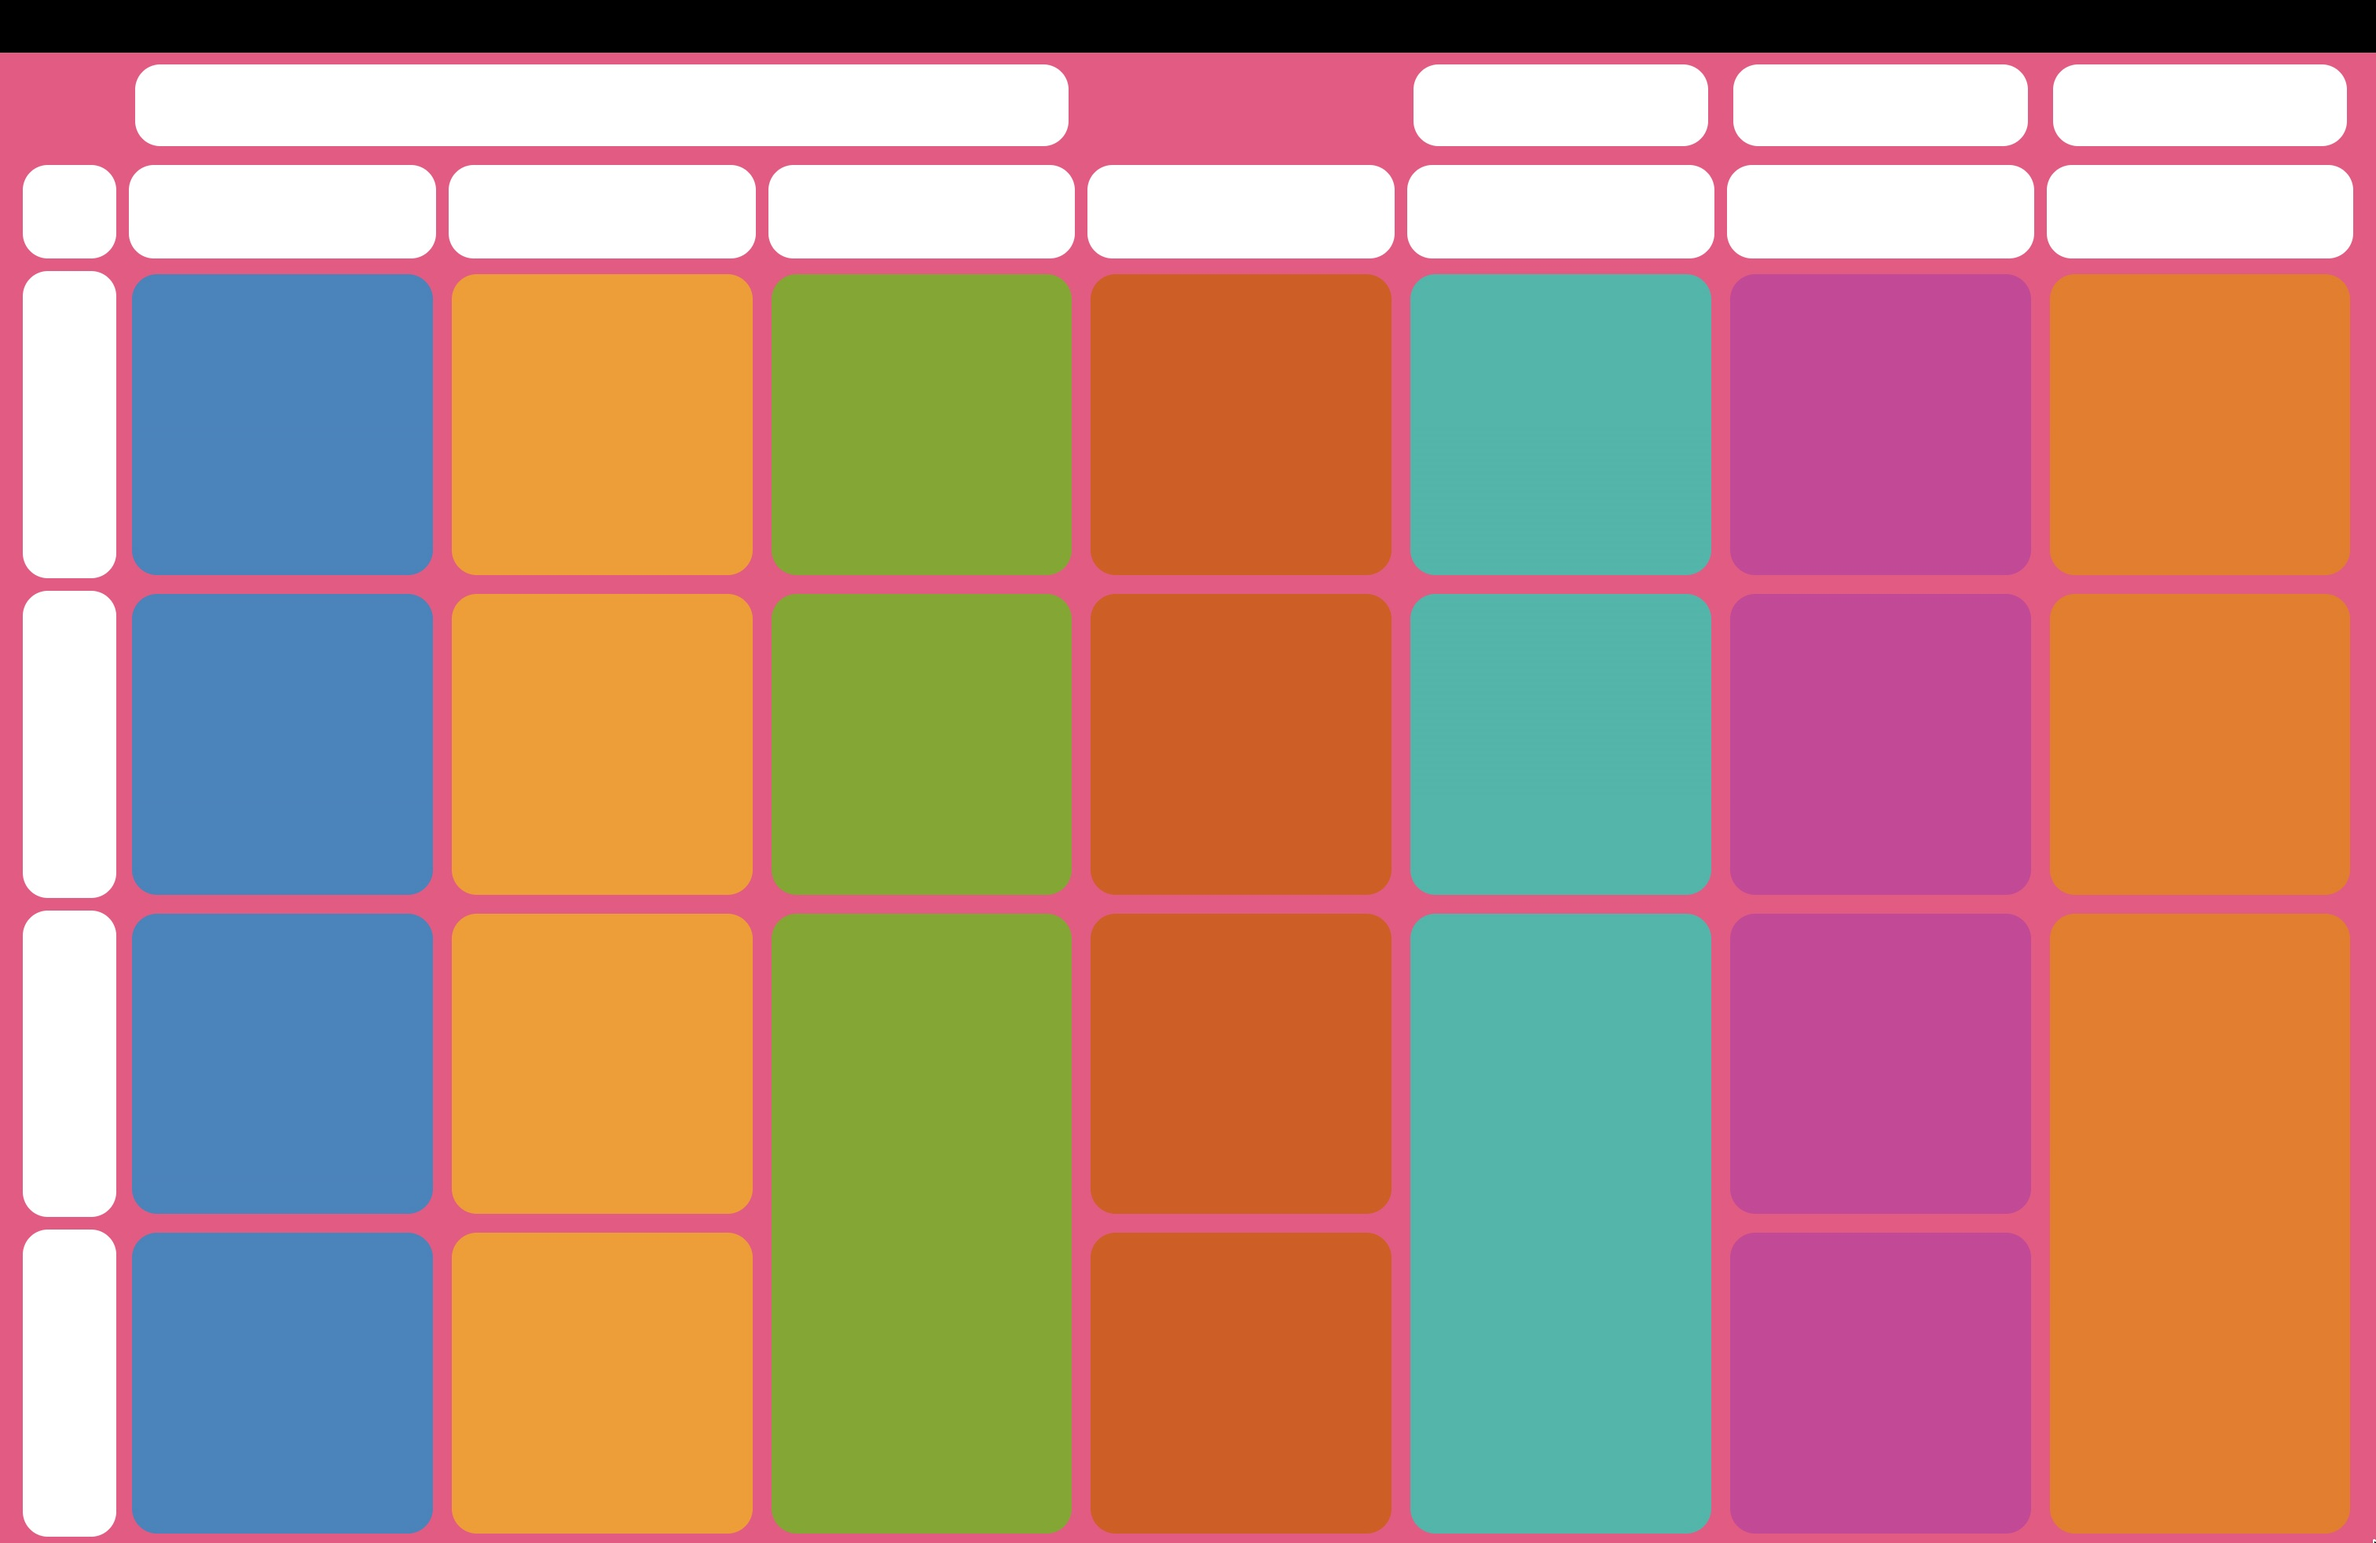
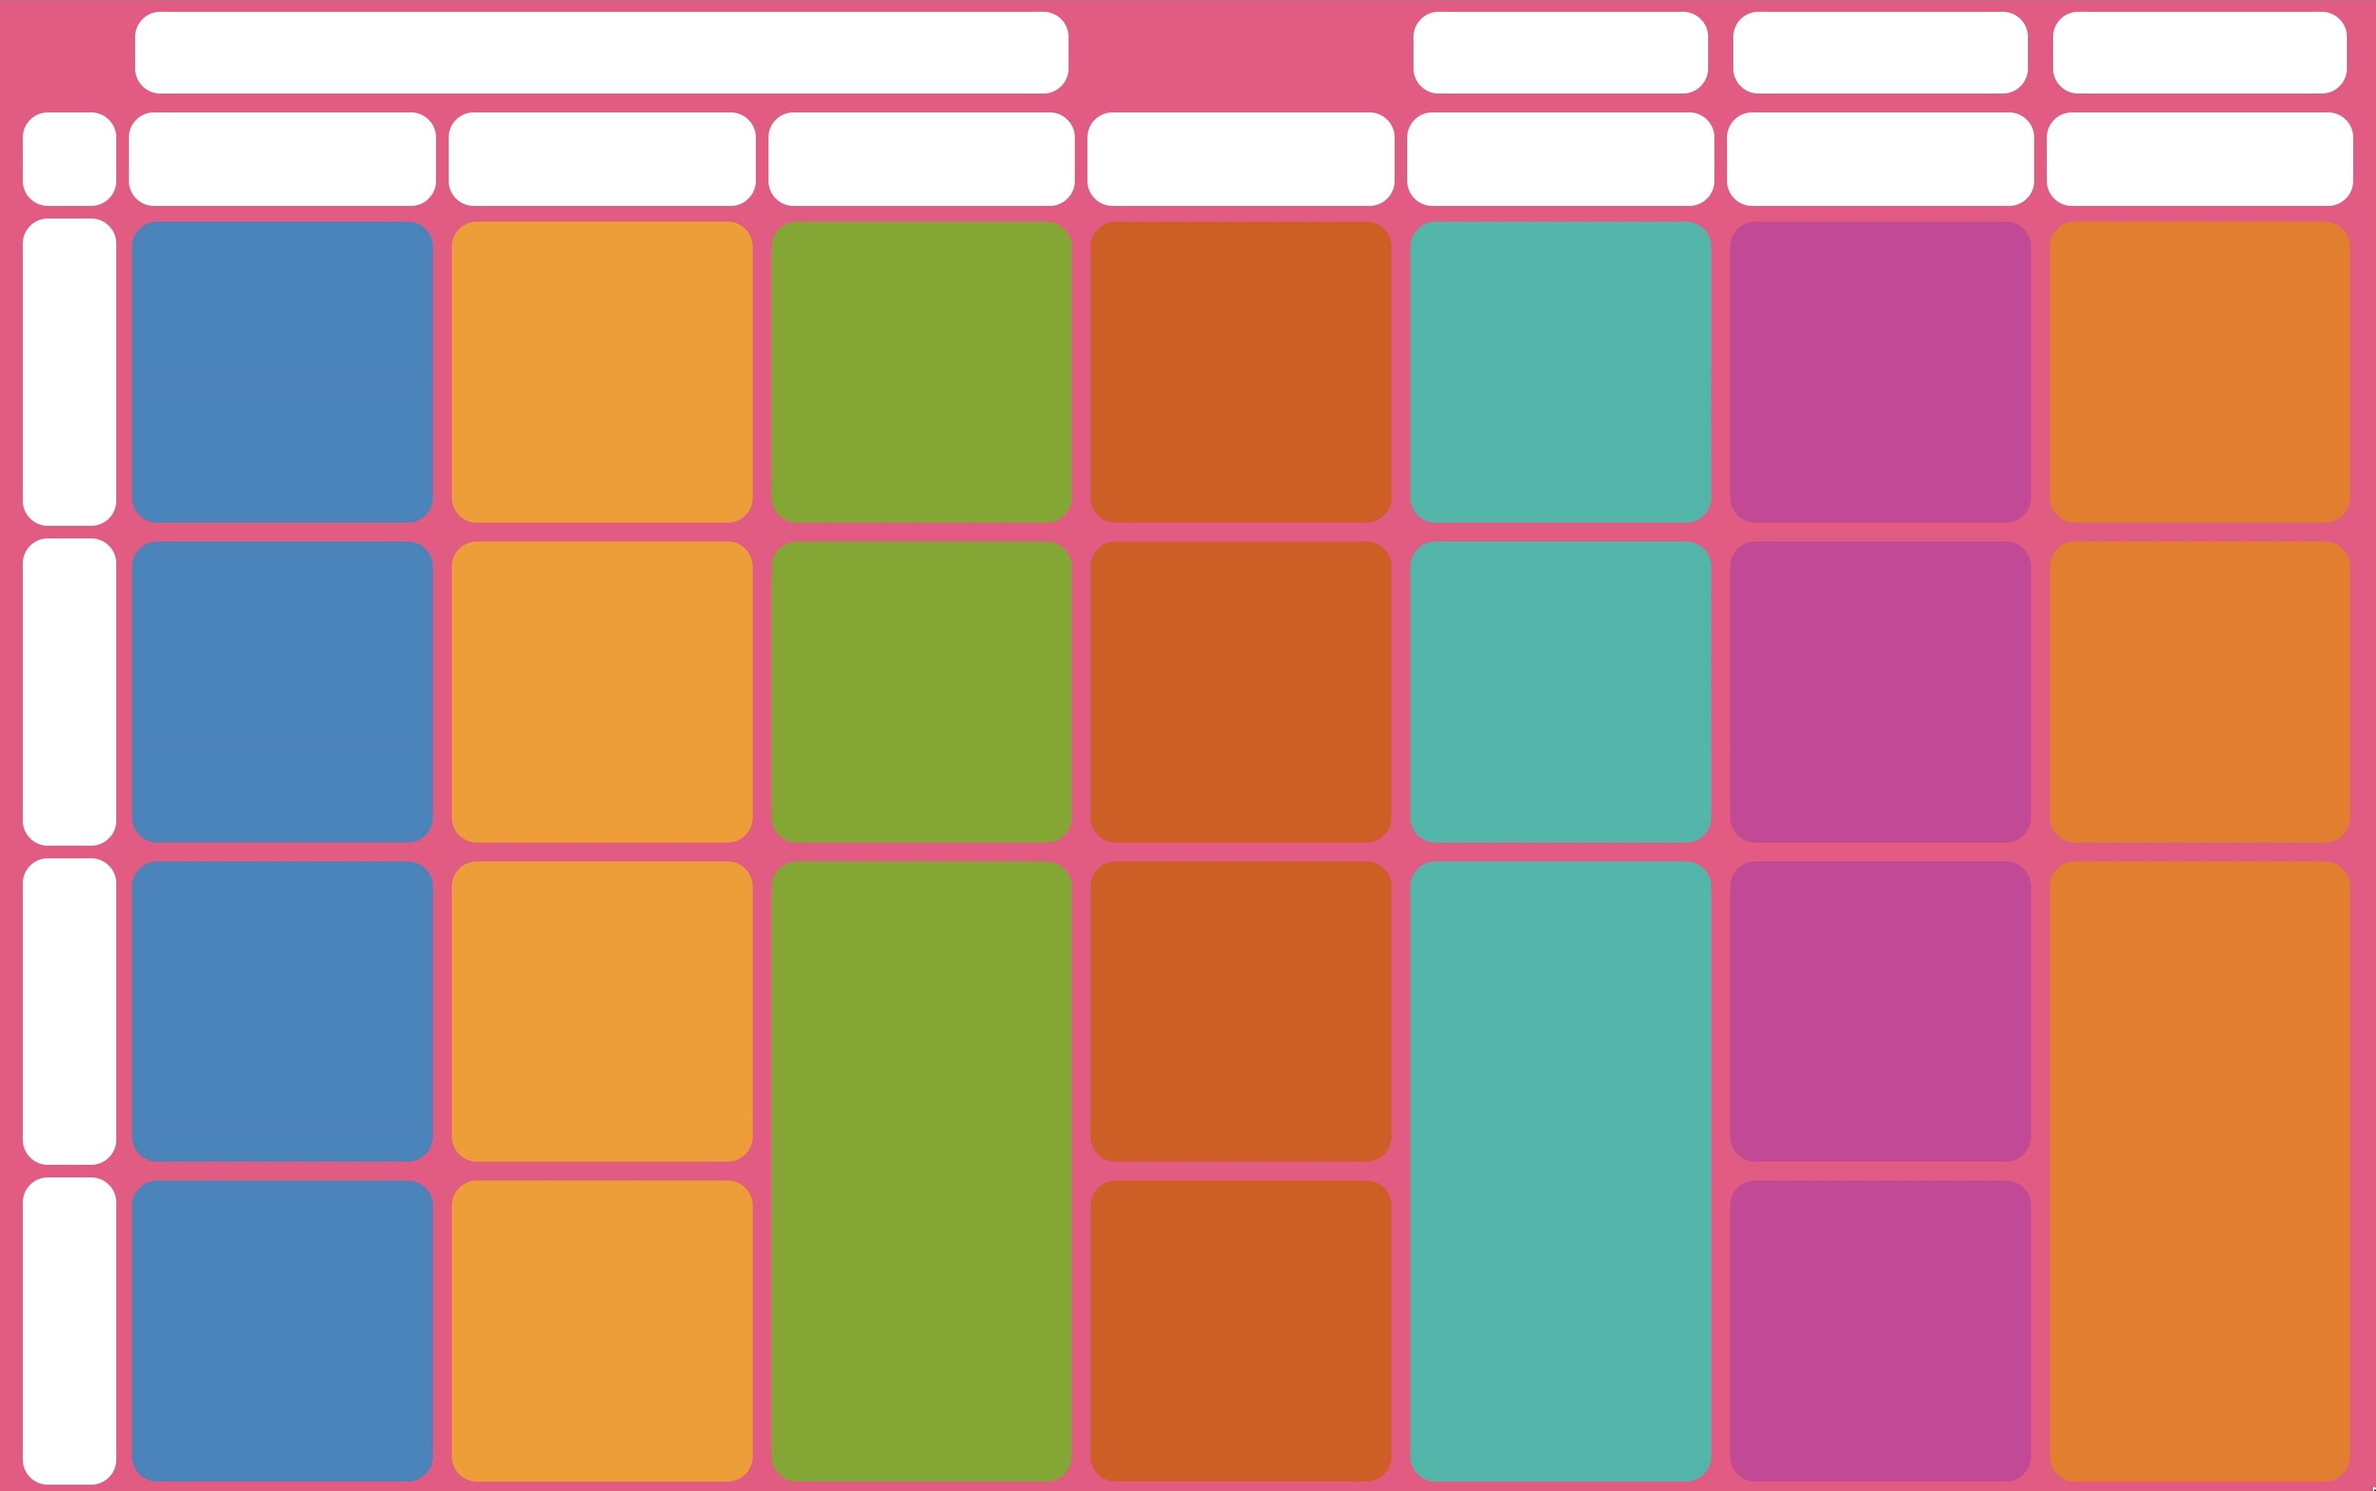
improve seo

diff --git a/src/components/yogs-pages/creators/YogsCreatorDialog.tsx b/src/components/yogs-pages/creators/YogsCreatorDialog.tsx
@@ -1,9 +1,7 @@
-import type {ModalSignal} from "../../../lib/createModalSignal.ts";
-import {type Component, For, Match, Show, Switch} from "solid-js";
-import {Dialog} from "@kobalte/core/dialog";
-import {getTextColor} from "../../../lib/utils/textColors.ts";
-import {FaSolidXmark} from "solid-icons/fa";
-import {twMerge} from "tailwind-merge";
+import type { ModalSignal } from '../../../lib/createModalSignal.ts'
+import { type Component, For, Show } from 'solid-js'
+import { Dialog } from '@kobalte/core/dialog'
+import { getTextColor } from '../../../lib/utils/textColors.ts'
 import {
   FaBrandsDiscord,
   FaBrandsInstagram,
@@ -13,76 +11,85 @@ import {
   FaBrandsTwitch,
   FaBrandsTwitter,
   FaBrandsYoutube,
-  FaSolidLink
-} from "solid-icons/fa";
-import {BskyIcon, JJIcon} from "../../common/icons/JJIcons.tsx";
+  FaSolidLink,
+  FaSolidXmark,
+} from 'solid-icons/fa'
+import { twMerge } from 'tailwind-merge'
+import { BskyIcon, JJIcon } from '../../common/icons/JJIcons.tsx'
 import type { YogsCreator } from '../../../lib/orpc/private/yogs/contract.ts'
 
 interface CreatorDialogProps {
-  creator: YogsCreator,
-  modalSignal: ModalSignal,
+  creator: YogsCreator
+  modalSignal: ModalSignal
   onJJStreamsClick?: () => void
 }
 
 export const YogsCreatorDialog: Component<CreatorDialogProps> = (props) => {
   return (
-    <Dialog open={props.modalSignal.isOpen()} onOpenChange={props.modalSignal.setOpen}>
+    <Dialog
+      open={props.modalSignal.isOpen()}
+      onOpenChange={props.modalSignal.setOpen}
+    >
       <Dialog.Portal>
-        <Dialog.Overlay class="fixed inset-0 bg-black/20 lg:p-16 p-2"/>
-        <Dialog.Content
-          class="fixed top-1/2 left-1/2 transform -translate-x-1/2 -translate-y-1/2 bg-white rounded-2xl shadow-xl w-[calc(100vw_-_24px)] lg:w-[min(calc(100vw_-_16px),_386px)]">
+        <Dialog.Overlay class="fixed inset-0 bg-black/20 p-2 lg:p-16" />
+        <Dialog.Content class="fixed left-1/2 top-1/2 w-[calc(100vw_-_24px)] -translate-x-1/2 -translate-y-1/2 transform rounded-2xl bg-white shadow-xl lg:w-[min(calc(100vw_-_16px),_386px)]">
           <Dialog.Title
-            class="p-2 flex flex-row gap-4 rounded-t-2xl"
+            class="flex flex-row gap-4 rounded-t-2xl p-2"
             style={{
-              background: props.creator.color?? '#1E95EF',
-              color: getTextColor(props.creator.color ?? '#1E95EF')
+              background: props.creator.color ?? '#1E95EF',
+              color: getTextColor(props.creator.color ?? '#1E95EF'),
             }}
           >
-            <button class={'rounded-full hover:bg-accent-200/10 aspect-square'}
-                    onClick={() => props.modalSignal.close()}>
-              <FaSolidXmark size={24}/>
+            <button
+              class={'aspect-square rounded-full hover:bg-accent-200/10'}
+              onClick={() => props.modalSignal.close()}
+            >
+              <FaSolidXmark size={24} />
             </button>
             <div class={'flex flex-col'}>
               <p class={'text-xl font-bold'}>{props.creator.name}</p>
             </div>
           </Dialog.Title>
           <Show when={props.creator.links}>
-            <div class={'p-4 flex items-center justify-center'}>
-              <Links creator={props.creator} onJJStreamsClick={props.onJJStreamsClick}/>
+            <div class={'flex items-center justify-center p-4'}>
+              <Links
+                creator={props.creator}
+                onJJStreamsClick={props.onJJStreamsClick}
+              />
             </div>
           </Show>
           <Show when={!props.creator.links}>
-            <div class={'p-4 flex items-center justify-center'}>
+            <div class={'flex items-center justify-center p-4'}>
               <p>No Links found</p>
             </div>
           </Show>
         </Dialog.Content>
       </Dialog.Portal>
     </Dialog>
-  );
+  )
 }
 
 interface LinksProps {
-  creator: YogsCreator,
+  creator: YogsCreator
   onJJStreamsClick?: () => void
 }
 
 export const Links: Component<LinksProps> = (props) => {
   const links = props.creator.links!
 
-
   const linkOrder = [
     'twitch',
     'youtube',
     'bsky',
+    'discord',
     'twitter',
     'tiktok',
     'instagram',
   ]
 
   const filteredLinks = links
-    .filter(link => link.type)
-    .filter(link => linkOrder.includes(link.type!))
+    .filter((link) => link.type)
+    .filter((link) => linkOrder.includes(link.type!))
 
   filteredLinks.sort((a, b) => {
     return linkOrder.indexOf(a.type!) - linkOrder.indexOf(b.type!)
@@ -109,58 +116,61 @@ export const Links: Component<LinksProps> = (props) => {
   const linkBGHoverColor = (type: string) => {
     switch (type) {
       case 'twitch':
-        return 'hover:bg-[#6441A4]'
+        return 'hover:bg-[#6441A4ee]'
       case 'youtube':
-        return 'hover:bg-[#FF0000]'
+        return 'hover:bg-[#FF0000ee]'
       case 'bsky':
-        return 'hover:bg-[#1E95EF]'
+        return 'hover:bg-[#1E95EFee]'
       case 'twitter':
-        return 'hover:bg-[#1DA1F2]'
+        return 'hover:bg-[#1DA1F2ee]'
       case 'tiktok':
-        return 'hover:bg-[#69C9D0]'
+        return 'hover:bg-[#69C9D0ee]'
       case 'instagram':
-        return 'hover:bg-[#E4405F]'
+        return 'hover:bg-[#E4405Fee]'
       default:
-        return 'hover:bg-[#000000]'
+        return 'hover:bg-[#000000ee]'
     }
   }
 
   const linkIcon = (type: string) => {
     switch (type) {
       case 'twitch':
-        return <FaBrandsTwitch size={24}/>
+        return <FaBrandsTwitch size={24} />
       case 'youtube':
-        return <FaBrandsYoutube size={24}/>
+        return <FaBrandsYoutube size={24} />
       case 'bsky':
-        return <BskyIcon class={'size-6'}/>
+        return <BskyIcon class={'size-6'} />
       case 'twitter':
-        return <FaBrandsTwitter size={24}/>
+        return <FaBrandsTwitter size={24} />
       case 'tiktok':
-        return <FaBrandsTiktok size={24}/>
+        return <FaBrandsTiktok size={24} />
       case 'instagram':
-        return <FaBrandsInstagram size={24}/>
+        return <FaBrandsInstagram size={24} />
       case 'discord':
-        return <FaBrandsDiscord size={24}/>
+        return <FaBrandsDiscord size={24} />
       case 'reddit':
-        return <FaBrandsReddit size={24}/>
+        return <FaBrandsReddit size={24} />
       case 'patreon':
-        return <FaBrandsPatreon size={24}/>
+        return <FaBrandsPatreon size={24} />
       case 'website':
-        return <FaSolidLink size={24}/>
+        return <FaSolidLink size={24} />
       default:
-        return <FaSolidLink size={24}/>
+        return <FaSolidLink size={24} />
     }
   }
 
   return (
-    <div class={'flex flex-col gap-4 w-full'}>
-      <div class={'flex flex-row flex-wrap gap-2 justify-center'}>
+    <div class={'flex w-full flex-col gap-4'}>
+      <div class={'flex flex-row flex-wrap justify-center gap-2'}>
         <For each={filteredLinks}>
           {(link) => (
             <a
               href={link.url}
               target={'_blank'}
-              class={twMerge('p-2 rounded-full transition-all', linkHoverColor(link.type!))}
+              class={twMerge(
+                'rounded-full p-2 transition-all',
+                linkHoverColor(link.type!),
+              )}
               aria-label={`${props.creator.name} ${link.type}`}
             >
               {linkIcon(link.type!)}
@@ -170,37 +180,15 @@ export const Links: Component<LinksProps> = (props) => {
       </div>
       <Show when={props.onJJStreamsClick}>
         <button
-          class={'flex flex-row gap-2 items-center justify-center p-2 rounded-full bg-primary text-white hover:bg-primary-400 transition-all'}
+          class={
+            'flex flex-row items-center justify-center gap-2 rounded-full bg-primary p-2 text-white transition-all hover:bg-primary-400'
+          }
           onClick={() => props.onJJStreamsClick?.()}
         >
-          <JJIcon class={'size-6'}/>
+          <JJIcon class={'size-6'} />
           <span>Show Jingle Jam Streams</span>
         </button>
       </Show>
-      <Switch>
-        <Match when={props.creator.links?.find(link => link.type === 'discord')}>
-          <a
-            href={props.creator.links?.find(link => link.type === 'discord')?.url}
-            target={'_blank'}
-            class={twMerge('flex flex-row gap-2 items-center justify-center p-2 rounded-full bg-[#5865F2] text-white hover:bg-[#4752C4] transition-all')}
-            aria-label={`${props.creator.name} discord`}
-          >
-            <FaBrandsDiscord size={24}/>
-            <span>Join Discord</span>
-          </a>
-        </Match>
-        <Match when={props.creator.links?.find(link => link.type === 'patreon')}>
-          <a
-            href={props.creator.links?.find(link => link.type === 'patreon')?.url}
-            target={'_blank'}
-            class={twMerge('flex flex-row gap-2 items-center justify-center p-2 rounded-full bg-[#F96854] text-white hover:bg-[#E75A46] transition-all')}
-            aria-label={`${props.creator.name} patreon`}
-          >
-            <FaBrandsPatreon size={24}/>
-            <span>Support on Patreon</span>
-          </a>
-        </Match>
-      </Switch>
     </div>
   )
 }
